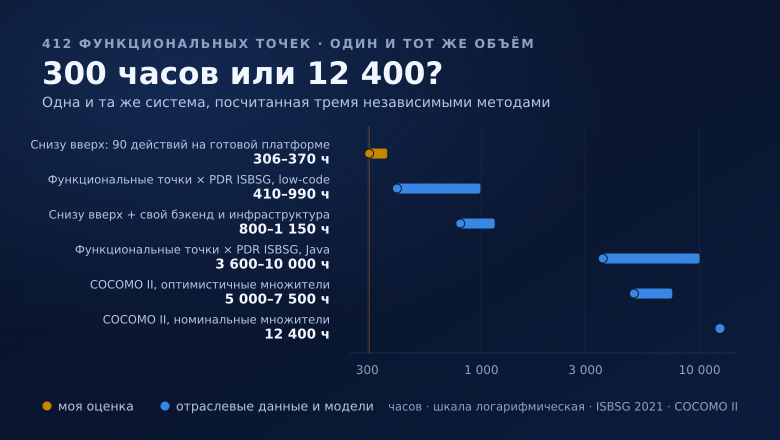
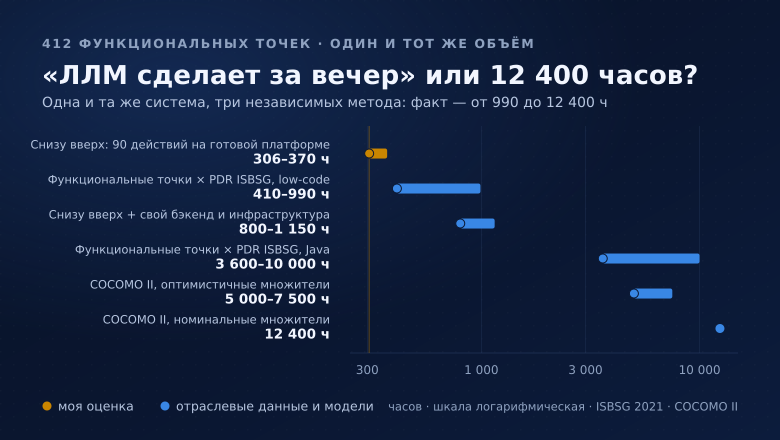
Метод 1: подраздел «Кто на самом деле писал ТЗ и что туда просочилось»
Новый подраздел в конце первого метода: ТЗ всё чаще пишется с участием ИИ,
и модель по умолчанию подтягивает индустриальный язык — аудит, ролевая
модель, обработка ошибок, миграции, тестовое покрытие. По форме приходит
промышленное ТЗ уровня команды с процессом, по бюджету рассчитывают на
одиночку с low-code-платформой; разрыв 0,73 → 8,7 ч/FP — в том числе
разрыв между тем, кто придумал требования, и тем, кто под них подписывается.

Подраздел стоит до моста к методу 2 и ссылается вперёд («из следующего
раздела») — ссылка закреплена тестом habr-effort-estimate-tz-authorship.

Заодно КДПВ подхватывает новый заголовок статьи: «ЛЛМ сделает за вечер»
или 12 400 часов? Данные на шкале не менялись.

Починены четыре теста, покрасневшие от правок в main (5547fe1/4fec250):
раздел «Что за система» переименован в «Что хотел заказчик», а абзац про
аффилиацию потерял слова «конфликт интересов» — проверка раскрытия
переведена на текущие формулировки. Полный прогон: было 23 красных на
чистом main, стало 19 (остальные — известный фон: php-интейк, KB, темы).

Changed region(s): [[0.0615, 0.1182, 0.8923, 0.2659]]

diff --git a/content/habr-effort-estimate/articles/skolko-chasov-stoit-promyshlennoe-prilozhenie.md b/content/habr-effort-estimate/articles/skolko-chasov-stoit-promyshlennoe-prilozhenie.md
@@ -162,6 +162,14 @@ readingTime: 14–16 минут
 
 Складывая: доводка действий (306, с надбавкой ~370) + инфраструктура (240–384) + адаптация фронта — получается **800–1150 часов** для варианта «с нуля» и **500–725 часов**, если существующий фронтенд переиспользуется и меняется только транспорт.
 
+### Кто на самом деле писал ТЗ и что туда просочилось
+
+Раньше ТЗ было соразмерно пониманию самого заказчика — расплывчатое там, где заказчик и сам не знал деталей. Сейчас ТЗ всё чаще составляется с участием ИИ, а модель, обученная на корпоративной документации и лучших практиках, по умолчанию подтягивает язык индустриального уровня: требования к аудиту, ролевой модели, обработке ошибок, миграциям, тестовому покрытию — то, что раньше в текст вписывал архитектор большой команды, теперь появляется само, просто потому что для документа такого типа модель считает это хорошим тоном.
+
+В результате мне присылают текст, который по форме и по неявным ожиданиям — промышленное ТЗ уровня команды с процессом, а по бюджету рассчитывают на производительность одиночки на low-code-платформе. И когда меня просят подписаться под оценкой по такому ТЗ — по факту просят подписаться под индустриальными требованиями, которые заказчик не формулировал сознательно, а получил бесплатным побочным эффектом от инструмента, которым это ТЗ писал.
+
+Разрыв между «0,73 ч/FP» и «8,7 ч/FP» из следующего раздела — это в том числе разрыв между тем, кто фактически придумал требования, и тем, кто должен под них подписаться.
+
 Это первый метод. Он честный, но у него врождённый порок: я оцениваю сам себя, своей же меркой. Поэтому дальше — два способа проверки, которые про меня ничего не знают.
 
 ## Метод 2: функциональные точки и отраслевая производительность
